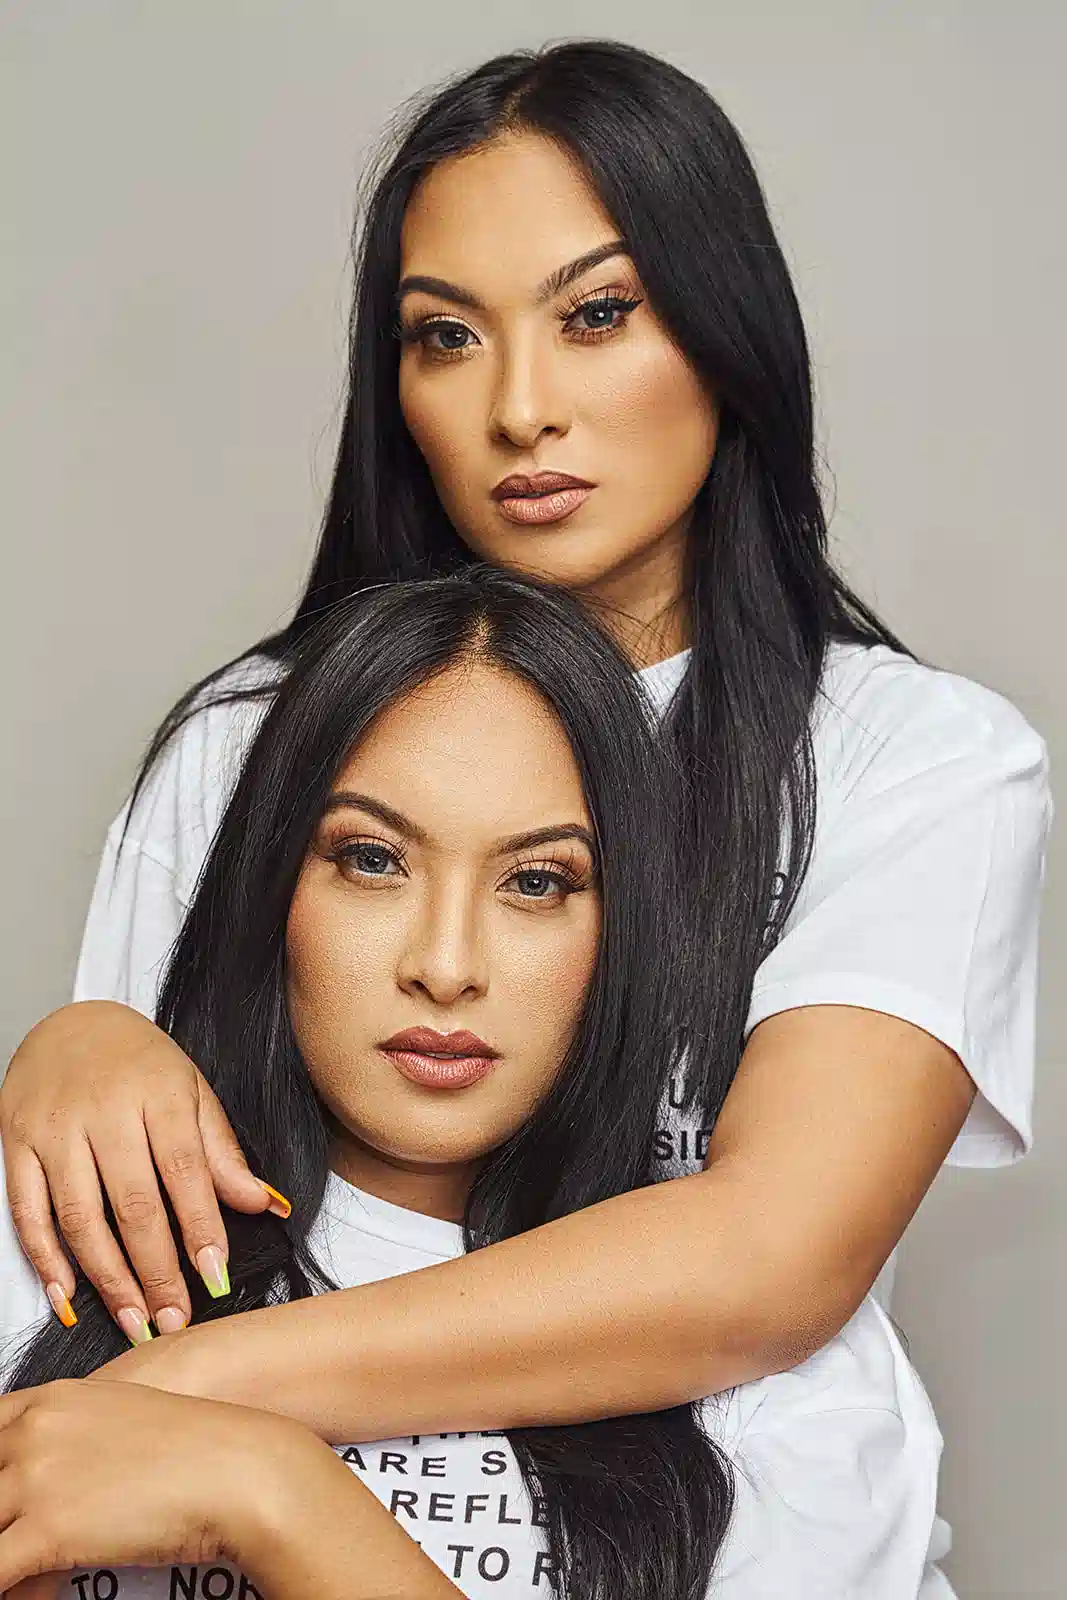
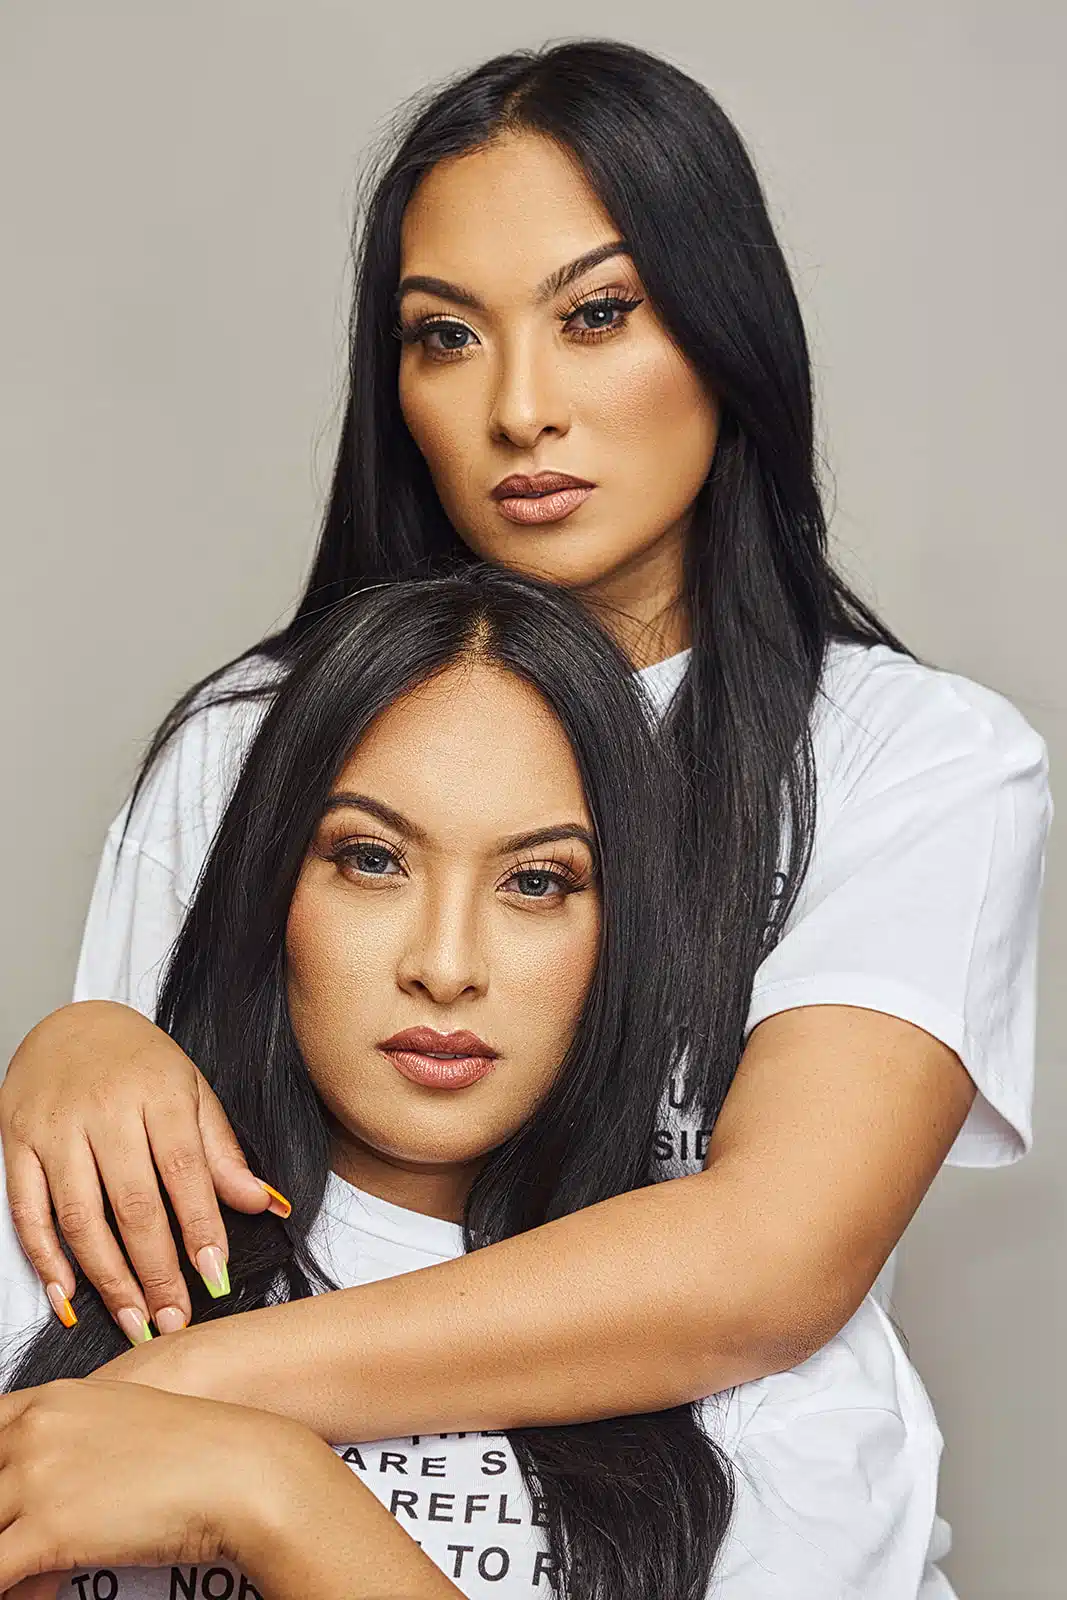
Upped quality of webp images & content additions & style changes

diff --git a/src/App.svelte b/src/App.svelte
@@ -2,9 +2,10 @@
     import {fade, slide, scale} from 'svelte/transition';
 </script>
 
-<div id="cover" in:slide="{{ duration: 2500 }}">
+<!-- Cover image -->
 
-</div>
+<div id="cover" in:slide="{{ duration: 2500 }}"></div>
+
 <!-- Main -->
 <div transition:fade="{{ duration: 2000, delay: 1800}}">
     <center>
@@ -14,32 +15,114 @@
     </center>
     <br><br>
     <h1>who we are</h1>
-    <div transition:scale="{{ duration: 2000, delay: 2000}}" class="pad-top">
+    <div transition:scale="{{ duration: 2000, delay: 2200}}" class="pad-top">
         <div class="container">
             <div class="row">
                 <div class="col-md-6 col-sm-12">
                     <img class="img-fluid" src="portrait_One.webp" alt="portrait_image" height="1000vh" width="680vw">
-                    <p class="pt-4">We eventually left the makeup industry to pursue Jobs In the field in which we studied – Biotechnology.</p>
-                    <p>Yet our passion for makeup never left us and as a side hustle we did some freelancing makeup Jobs.</p>
-                    <p>The Beauty Industry really ignited the passion within us , to push our creativity to the next level and enhance our artistry skill.</p>
+                    <p class="pt-4 p-top">We eventually left the makeup industry to pursue Jobs In the field in which we studied – Biotechnology.</p>
+                    <p class="p-top">Yet our passion for makeup never left us and as a side hustle we did some freelancing makeup Jobs.</p>
+                    <p class="p-top">The Beauty Industry really ignited the passion within us , to push our creativity to the next level and enhance our artistry skill.</p>
                 </div>
                 <div class="col-md-6 col-sm-12">
-                    <p>We are the <strong>Mack Twins</strong>, Chanel & Charnay Mack , professional freelance makeup artists.</p>
-                    <p><strong>Welcome to our Makeup Website</strong></p>
-                    <p class="pb-4">Our makeup Artistry journey started in the year 2013, while studying towards our Bsc degrees. We were approached by @elizabetharden to promote their new lipstick line , and from there got approached by @bobbibrown and worked there for 2 years and then @maccosmeticsafrica for another 2 years and lastly @urbandecaycosmetics .</p>
+                    <p class="p-top">We are the <strong>Mack Twins</strong>, Chanel & Charnay Mack , professional freelance makeup artists.</p>
+                    <p class="p-top"><strong>Welcome to our Makeup Website</strong></p>
+                    <p class="pb-4 p-top">Our makeup Artistry journey started in the year 2013, while studying towards our Bsc degrees. We were approached by @elizabetharden to promote their new lipstick line , and from there got approached by @bobbibrown and worked there for 2 years and then @maccosmeticsafrica for another 2 years and lastly @urbandecaycosmetics .</p>
                     <img class="img-fluid" src="portrait_Two.webp" alt="portrait_image" height="1000vh" width="680vw">
                 </div>
             </div>
         </div>
     </div>
-
-    <div class="">
-        <br>
-        <p><strong>All women want to feel beautiful and we want to  ignite that feeling in each and everyone of</strong></p>
-        <h3><strong>YOU</strong></h3>
-        <br>
-        <h2>Mack Twins</h2>
+    
+    <div class="container">
+        <div class="row mt-5">
+            <div class="col-12">
+                <p class="p-top"><strong>All women want to feel beautiful and we want to  ignite that feeling in each and everyone of</strong></p>
+                <h3><strong>YOU</strong></h3>
+                <br><br><br>
+                <h2>Mack Twins</h2>
+                <h3>Make Up Services</h3>
+                <br>
+                <div class="row">
+                    <div transition:scale="{{ duration: 1800, delay: 3200}}" class="col-md-4 col-sm-12">
+                        <center><img class="img-fluid" src="weddings.webp" alt="portrait_image" height="800vh" width="1000vw"></center>
+                        <h4>Weddings</h4>
+                        <br>
+                        <p>
+                            <strong>MACK TWINS</strong> provide a make up experience to the bridal entourage that brings beauty and radiance on this special day of the Bride.
+                        </p>
+                    </div>
+                    <div transition:scale="{{ duration: 2000, delay: 3300}}" class="col-md-4 col-sm-12">
+                        <center><img class="img-fluid" src="portrait_Three.webp" alt="portrait_image" height="800vh" width="1000vw"></center>
+                        <h4>Special Occasions</h4>
+                        <br>
+                        <p>
+                            Your Anniversary , Your Party , Your Event , Your Special Day is where <strong>MACK TWINS</strong> bring out and ignite the beauty in YOU through makeup.
+                        </p>
+                    </div>
+                    <div transition:scale="{{ duration: 2200, delay: 3400}}" class="col-md-4 col-sm-12">
+                        <center><img class="img-fluid" src="portrait_Two.webp" alt="portrait_image" height="800vh" width="1000vw"></center>
+                        <h4>Matric Balls</h4>
+                        <br>
+                        <p>A celebration of knowledge and beauty. This is where <strong>MACK TWINS</strong> brings out the magic of YOUR beauty to the world You are entering.</p>
+                    </div>
+                </div>
+            </div>
+        </div>
     </div>
+</div>
 
-    <center><img class="img-fluid" transition:scale="{{ duration: 2000, delay: 3000}}" src="portrait_Three.webp" alt="portrait_image" height="800vh" width="1000vw"></center>
+<div class="container pb-3 pt-4">
+    <div class="row">
+        <div class="col-md-6 col-sm-12 pt-5 mx-auto">
+            <form name='contact' method='POST' data-netlify="true">
+                <fieldset>
+                <div class="form-group">
+                    <!-- svelte-ignore a11y-label-has-associated-control -->
+                    <label>Name</label>
+                    <input type="text" class="form-control" aria-describedby="emailHelp" placeholder="Enter your name" name="name">
+                </div>
+                <div class="form-group">
+                    <!-- svelte-ignore a11y-label-has-associated-control -->
+                    <label>Email address</label>
+                    <input type="email" class="form-control" aria-describedby="emailHelp" placeholder="Enter your email" name="email">
+                    <small id="emailHelp" class="form-text text-muted">We'll never share your email with anyone else.</small>
+                </div>
+                <div class="form-group">
+                    <!-- svelte-ignore a11y-label-has-associated-control -->
+                    <label>Subject</label>
+                    <input type="text" class="form-control" aria-describedby="emailHelp" placeholder="Enter your subject" name="subject">
+                </div>
+                <div class="form-group">
+                    <!-- svelte-ignore a11y-label-has-associated-control -->
+                    <label>Your message...</label>
+                    <textarea name="message" class="form-control" id="exampleTextarea" rows="8"></textarea>
+                </div>
+                <center><button type="submit" class="btn btn-primary submit">Submit</button></center>
+                </fieldset>
+            </form>
+        </div>
+    </div>
+</div>
+
+<!-- Footer  -->
+<footer class="footer footer_look pt-5">
+    <div class="container-fluid">
+        <div class="row">
+            <div class="col-md-4 col-sm-6 col-xs-12 segOne text-center">
+                <p> |  Freelance Make Up Artists | GAUTENG | South Africa  | </p>
+            </div>
+            <div class="col-md-4 col-sm-6 col-xs-12 segmTwo text-center">
+                <img class="img-fluid" src="MTME_logo.png" alt="MTME_logo" width="170" height="170">
+            </div>
+            <div class="col-md-3 col-sm-6 col-xs-12 segThree text-center">
+                <a id="mail" href="mailtobookings@mtme.co.za" >bookings@mtme.co.za</a>
+            </div>
+        </div>
+    </div>
+</footer>
+<div id="btm-border">
+    <div class="container text-center">
+        <a href="https://splyce.dev" target="_blank">Designed by Splyce</a>
+    </div>
 </div>

diff --git a/public/global.css b/public/global.css
@@ -3,34 +3,39 @@ html, body {
 	width: 100%;
     height: 100%;
 }
-
 body {
     background-color: #d8c4bd23;
     overflow-y: scroll;
+    /* overflow-x: hidden; */
     color: #333;
     height: 100%;
 	margin: 0;
 	box-sizing: border-box;
 	font-family: -apple-system, BlinkMacSystemFont, "Segoe UI", Roboto, Oxygen-Sans, Ubuntu, Cantarell, "Helvetica Neue", sans-serif;
 }
-
-a {
-	color: rgb(0,100,200);
-	text-decoration: none;
+a{
+	color: rgb(201, 192, 152);
+    text-decoration: none;
 }
-
+#mail{
+    font-size: 22px;
+}
+.segOne{
+    padding-top: 2vh;
+}
+/* .segTwo{
+    
+} */
+.segThree{
+    padding-top: 2vh;
+}
 a:hover {
-	text-decoration: underline;
+    text-decoration: underline;
+    color: rgb(185, 177, 139);
 }
-
-a:visited {
-	color: rgb(0,80,160);
-}
-
 label {
 	display: block;
 }
-
 input, button, select, textarea {
 	font-family: inherit;
 	font-size: inherit;
@@ -38,54 +43,74 @@ input, button, select, textarea {
 	padding: 0.4em;
 	margin: 0 0 0.5em 0;
 	box-sizing: border-box;
-	border: 1px solid #ccc;
+	border: 2px solid#827D54;
 	border-radius: 2px;
 }
-
-input:disabled {
-	color: #ccc;
+.form-control{
+    border: 2px solid#827D54;
+    border-radius: 0;
 }
-
-button {
-	color: #333;
-	background-color: #f4f4f4;
-	outline: none;
-}
-
-button:disabled {
-	color: #999;
-}
-
-button:not(:disabled):active {
-	background-color: #ddd;
-}
-
-button:focus {
-	border-color: #666;
+.form-control:focus{
+    border: 3px solid#b8ad5f;
+    border-radius: 0;
+    box-shadow: none;
 }
 h1{
     text-align: center;
     text-transform: uppercase;
     font-size: 2.5rem;
+    color: #827D54;
 }
 h2{
     text-align: center;
     text-transform: uppercase;
     font-size: 2rem;
+    color: #827D54;
 }
 h3{
     text-align: center;
     text-transform: uppercase;
-    font-size: 2rem;
+    font-size: 1.5rem;
+    color: #827D54;
+    font-weight: 200;
+}
+h4{
+    text-align: center;
+    padding-top: 1vh;
+    font-size: 1.5rem;
+    color: #827D54;
+    font-weight: 400;
+}
+strong{
+    color: #827D54;
 }
 p{
+    font-size: 1.15rem;
+    color: #968B53;
+}
+.p-top{
     font-size: 1.4rem;
     text-align: center;
 }
+label{
+    
+}
+.btn-primary{
+    background-color: #635F40;
+    border-color: #757046;
+    margin-top: 2vh;
+    margin-bottom: 4vh;
+    width: 100%;
+    border-radius: 0;
+}
+.btn-primary:hover{
+    background-color: #97947d;
+    border-color: #757046;
+}
 i{
     margin: 0 auto;
-    padding-right: 3vw;
-    padding-left: 3vw;
+    padding-right: 2.2vw;
+    padding-left: 2.2vw;
     padding-top: 8vh;
     color: #333;
 }
@@ -111,6 +136,15 @@ i{
     background-repeat: no-repeat;
     background-size: cover;
 }
+#btm-border{
+    height: 3vh;
+    background-color: #635F40;
+}
+.footer_look {
+    background: #635F40;
+    padding: 10px;
+    border-top: 3px solid #7a7440;
+}
 .pad-top{
     padding-top: 6vh;
 }
@@ -128,5 +162,5 @@ i{
 }
 /* Handle on hover */
 ::-webkit-scrollbar-thumb:hover{
-    background: #04C2; 
+    background: rgba(139, 145, 160, 0.568); 
 }

diff --git a/public/index.html b/public/index.html
@@ -1,10 +1,11 @@
 <!DOCTYPE html>
 <html lang="en">
 <head>
+    <!-- SPLYCE - web development visit splyce.dev -->
 	<meta charset='utf-8'>
 	<meta name='viewport' content='width=device-width,initial-scale=1'>
 
-	<title>MTME</title>
+    <title>MTME</title>
 
     <link rel='icon' type='image/png' href='/favicon-32x32.png'>
     <link href="https://cdn.jsdelivr.net/npm/bootstrap@5.0.0-alpha3/dist/css/bootstrap.min.css" rel="stylesheet" integrity="sha384-CuOF+2SnTUfTwSZjCXf01h7uYhfOBuxIhGKPbfEJ3+FqH/s6cIFN9bGr1HmAg4fQ" crossorigin="anonymous">
